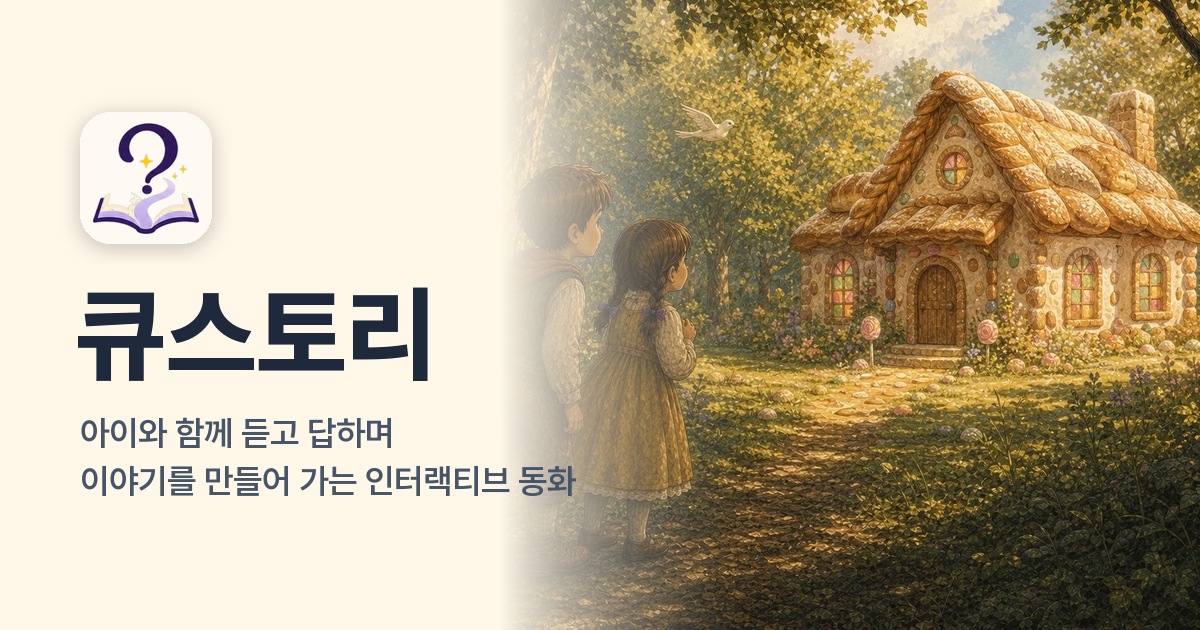
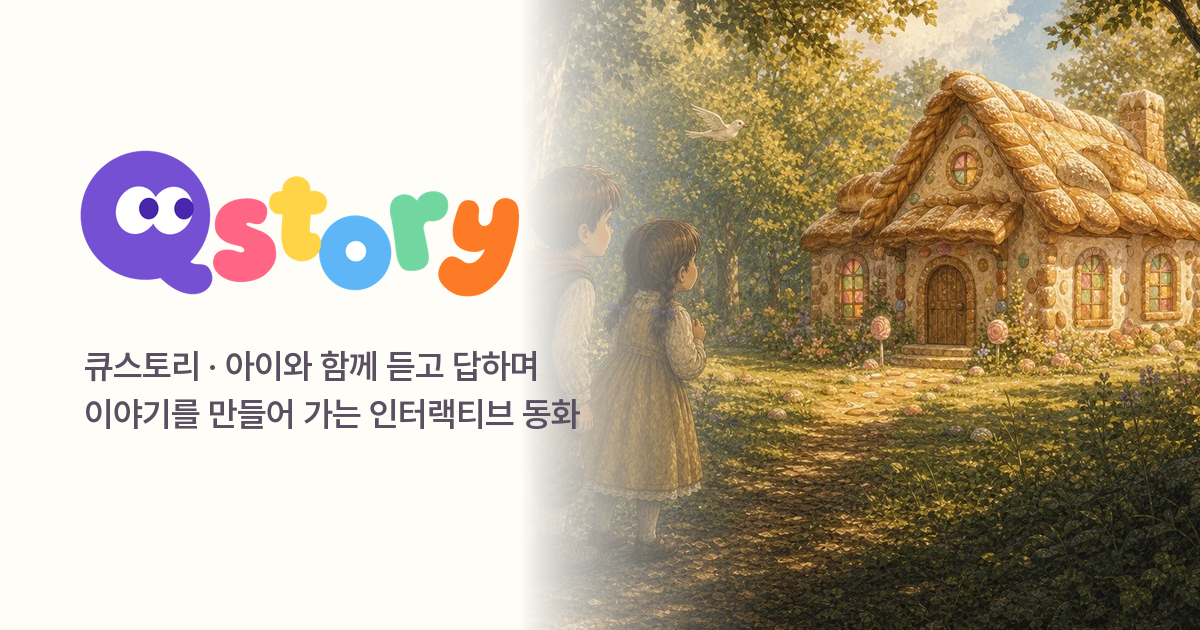
feat(brand): 새 Q 캐릭터 로고·워드마크로 파비콘·로딩 화면·OG·앱 안 로고 교체
- 랜딩 qstory-logo.png에서 Q 캐릭터를 떼어 매끈한 SVG(qstory-mark.svg)와 아이콘(32/180/192/512)을 만들었다
- BrandLockup은 워드마크(qstory-wordmark.png), 리더 상단 바는 새 마크
- 옛 질문책 로고 파일 제거

diff --git a/index.html b/index.html
@@ -9,7 +9,10 @@
     <link rel="preconnect" href="https://kbghxgejrkebdhjwizbr.supabase.co" crossorigin>
     <meta name="robots" content="noindex, nofollow, noarchive, nosnippet, noimageindex" />
     <meta name="description" content="아이와 함께 듣고 답하며 이야기를 만들어가는 인터랙티브 동화 - 큐스토리." />
-    <link rel="icon" href="/brand/q-story-logo-app-icon-1024.png" />
+    <link rel="icon" type="image/png" sizes="32x32" href="/brand/favicon-32.png" />
+    <link rel="icon" type="image/png" sizes="192x192" href="/brand/qstory-icon-192.png" />
+    <link rel="apple-touch-icon" sizes="180x180" href="/brand/apple-touch-icon.png" />
+    <meta name="theme-color" content="#FAF8FC" />
     <title>큐스토리</title>
     <!-- 초대·반 링크를 카카오톡 등에 붙였을 때의 미리보기. 경로와 상관없이 한 벌이다 - 리포트 링크도 이 공통 카드만
          보이게 해 아이 정보가 미리보기에 실리지 않게 한다. og:image는 절대 주소여야 스크래퍼가 읽는다. -->
@@ -21,13 +24,13 @@
     <meta property="og:image" content="https://demo.qstory.ai.kr/og-image.png" />
     <meta property="og:image:width" content="1200" />
     <meta property="og:image:height" content="630" />
-    <meta property="og:image:alt" content="큐스토리 로고와 숲속 과자집 앞의 헨젤과 그레텔 삽화" />
+    <meta property="og:image:alt" content="큐스토리 워드마크와 숲속 과자집 앞의 헨젤과 그레텔 삽화" />
     <meta name="twitter:card" content="summary_large_image" />
     <meta name="twitter:title" content="큐스토리" />
     <meta name="twitter:description" content="아이와 함께 듣고 답하며 이야기를 만들어 가는 인터랙티브 동화" />
     <meta name="twitter:image" content="https://demo.qstory.ai.kr/og-image.png" />
     <!-- JS가 오기 전 흰 화면 대신 보이는 정적 로딩 화면. #root 안에 두어 React가 처음 그릴 때 저절로 사라진다.
-         position: fixed라 레이아웃 자리를 차지하지 않아 사라질 때 밀림(CLS)이 없다. 배경은 첫 화면(라이트 셸)과 같다. -->
+         position: fixed라 레이아웃 자리를 차지하지 않아 사라질 때 밀림(CLS)이 없다. 배경은 첫 화면(라이트 셸)과 같고, 로고는 public/brand/qstory-mark.svg를 그대로 넣어 따로 요청하지 않는다. -->
     <style>
       #boot-splash {
         position: fixed;
@@ -37,34 +40,13 @@
         align-items: center;
         justify-content: center;
         gap: 20px;
-        background: #F7F8FA;
-        color: #1E293B;
+        background: #FAF8FC; /* Neutral 50 - 첫 화면(콘솔 바탕)과 같다 */
+        color: #27222D; /* Neutral 900 */
         font-family: 'Pretendard Variable', Pretendard, ui-sans-serif, system-ui, -apple-system, 'Apple SD Gothic Neo', 'Malgun Gothic', sans-serif;
       }
       #boot-splash .boot-mark {
-        position: relative;
-        width: 72px;
+        width: 66px;
         height: 72px;
-        border-radius: 20px;
-        background: #FFF7E8;
-        box-shadow: 0 6px 18px rgba(18, 9, 31, 0.12);
-        display: flex;
-        align-items: center;
-        justify-content: center;
-        font-size: 44px;
-        font-weight: 900;
-        line-height: 1;
-        color: #3B2266;
-      }
-      #boot-splash .boot-mark::after {
-        content: '';
-        position: absolute;
-        top: 14px;
-        right: 14px;
-        width: 9px;
-        height: 9px;
-        border-radius: 50%;
-        background: #F6C64D;
       }
       #boot-splash .boot-name {
         font-size: 22px;
@@ -79,7 +61,7 @@
         width: 7px;
         height: 7px;
         border-radius: 50%;
-        background: #F6C64D;
+        background: #9979E1; /* Purple 400 */
         animation: boot-pulse 1.2s ease-in-out infinite;
       }
       #boot-splash .boot-dots span:nth-child(2) { animation-delay: 0.15s; }
@@ -96,7 +78,11 @@
   <body>
     <div id="root">
       <div id="boot-splash" role="status" aria-live="polite" aria-label="큐스토리를 여는 중이에요">
-        <div class="boot-mark" aria-hidden="true">?</div>
+        <svg class="boot-mark" xmlns="http://www.w3.org/2000/svg" viewBox="0 0 270 294" aria-hidden="true">
+          <path fill="#7550D3" fill-rule="evenodd" d="M53.88 25.38 L51.00 27.88 L47.88 30.12 L45.00 32.88 L41.88 35.12 L34.12 42.88 L31.88 46.00 L28.50 49.62 L22.38 57.88 L20.38 61.38 L16.75 66.88 L10.62 79.12 L8.38 84.75 L5.75 92.25 L2.25 106.00 L1.00 113.62 L0.75 116.88 L0.12 119.75 L0.00 143.50 L0.75 147.75 L1.12 152.62 L3.12 162.88 L4.75 169.12 L7.75 178.12 L10.12 184.12 L12.25 188.75 L17.75 199.50 L24.12 209.25 L30.75 218.00 L45.62 233.00 L48.88 235.38 L51.38 237.62 L59.25 243.25 L64.62 246.50 L74.12 251.75 L86.75 257.00 L93.50 259.25 L105.62 262.25 L112.62 263.38 L115.88 263.62 L119.88 264.38 L125.62 264.38 L127.75 264.62 L145.50 264.38 L150.38 263.50 L153.62 263.25 L160.88 261.75 L162.62 261.88 L164.12 262.62 L168.62 267.00 L171.25 268.88 L174.62 271.88 L177.00 273.50 L179.88 276.00 L185.62 279.88 L192.50 284.00 L202.12 288.75 L204.62 289.75 L208.50 291.00 L217.75 293.25 L221.00 293.50 L225.88 294.38 L233.50 294.38 L239.88 293.25 L245.00 291.88 L250.25 289.75 L253.50 288.00 L257.75 284.88 L262.62 280.00 L265.75 275.25 L267.75 270.50 L269.25 264.62 L269.38 257.88 L268.75 254.25 L267.75 250.62 L266.75 248.00 L264.00 242.50 L262.00 239.62 L258.88 236.50 L257.75 235.62 L256.00 234.75 L250.75 233.12 L248.25 232.88 L244.62 232.12 L236.00 232.00 L234.12 231.75 L230.62 230.75 L228.25 229.62 L227.00 228.62 L226.50 227.62 L226.62 226.62 L227.12 225.75 L230.38 221.50 L234.25 217.50 L236.50 214.38 L238.62 212.00 L244.25 203.75 L247.75 198.25 L253.75 186.25 L256.75 178.75 L260.00 168.88 L262.25 159.75 L263.25 154.62 L263.50 151.38 L264.38 146.50 L264.62 136.00 L265.12 133.12 L265.12 131.25 L264.62 128.38 L264.38 118.88 L263.62 114.62 L263.38 111.38 L262.25 105.50 L259.25 93.50 L254.88 81.38 L248.12 67.62 L245.25 62.62 L236.88 50.62 L234.50 48.00 L232.25 44.88 L219.75 32.38 L209.50 24.38 L203.75 20.50 L197.50 16.75 L187.25 11.62 L175.25 6.88 L161.62 3.12 L156.62 2.12 L153.12 1.75 L150.62 1.12 L145.38 0.88 L140.50 0.00 L123.88 0.00 L119.62 0.75 L113.75 1.12 L103.50 3.12 L94.50 5.38 L86.62 8.00 L76.62 12.25 L65.62 17.88 L59.62 21.50 Z"/>
+          <path fill="#FFFFFF" fill-rule="evenodd" d="M75.00 110.25 L73.75 115.25 L72.88 121.25 L72.62 126.38 L72.88 131.12 L73.38 135.00 L75.00 141.75 L76.62 146.12 L78.50 150.00 L80.38 153.12 L85.00 158.88 L88.25 161.88 L91.12 164.00 L94.00 165.75 L99.38 168.12 L103.88 169.38 L108.00 170.00 L114.25 170.00 L118.75 169.38 L125.12 167.50 L129.88 165.38 L135.25 162.00 L139.00 159.00 L142.25 155.88 L145.38 152.25 L147.75 149.00 L151.38 154.75 L154.00 158.00 L159.12 162.88 L162.00 164.88 L165.25 166.75 L168.62 168.25 L172.00 169.38 L176.12 170.25 L179.25 170.62 L184.62 170.62 L190.88 169.75 L194.12 168.88 L198.25 167.38 L201.75 165.75 L205.50 163.50 L208.50 161.38 L212.12 158.25 L215.25 155.12 L219.62 149.62 L222.12 145.62 L225.75 138.00 L227.12 134.00 L228.12 130.12 L229.25 122.38 L229.38 116.62 L229.12 112.88 L228.62 109.25 L227.62 105.00 L226.50 101.38 L225.12 98.12 L223.00 94.00 L220.88 90.75 L218.12 87.38 L215.38 84.62 L213.50 83.00 L209.75 80.38 L207.12 78.88 L203.62 77.38 L199.88 76.12 L193.38 75.00 L188.75 74.88 L181.62 75.75 L177.50 76.88 L174.12 78.12 L170.00 80.12 L163.62 84.25 L160.50 86.88 L155.38 92.38 L152.50 96.25 L149.12 90.38 L145.62 86.00 L142.50 82.88 L139.12 80.25 L136.12 78.38 L133.12 76.88 L129.00 75.38 L125.50 74.50 L122.00 74.00 L117.75 73.88 L114.25 74.12 L111.00 74.62 L107.12 75.62 L101.25 78.00 L97.00 80.38 L91.00 84.88 L86.75 89.12 L82.62 94.25 L80.25 98.00 L77.62 103.12 Z"/>
+          <path fill="#4A26AC" fill-rule="evenodd" d="M209.38 97.75 L205.88 98.50 L202.25 100.12 L199.12 102.38 L196.50 105.25 L194.50 108.38 L193.00 112.12 L192.25 115.62 L192.12 120.75 L192.75 124.50 L193.88 127.75 L194.88 129.75 L196.62 132.50 L199.62 135.62 L202.50 137.62 L206.62 139.38 L209.38 139.88 L213.50 139.88 L218.25 138.62 L221.62 136.75 L223.62 135.12 L225.38 133.25 L227.75 129.88 L228.50 128.12 L229.25 122.38 L229.38 116.62 L229.12 112.88 L228.62 109.75 L227.25 107.12 L224.88 103.88 L222.00 101.25 L219.12 99.50 L215.75 98.25 L213.00 97.75 Z M137.88 97.38 L134.50 98.00 L130.88 99.50 L127.75 101.62 L124.62 104.88 L122.75 107.88 L121.00 112.25 L120.25 116.38 L120.25 120.75 L121.00 124.75 L122.00 127.62 L123.12 129.88 L124.62 132.12 L127.25 135.00 L129.75 136.88 L134.00 138.88 L137.62 139.62 L141.00 139.62 L144.12 139.00 L147.38 137.75 L149.25 136.62 L151.62 134.75 L153.88 132.25 L155.88 129.12 L157.50 125.00 L158.38 120.25 L158.38 116.75 L157.75 112.88 L156.12 108.50 L153.88 104.75 L151.12 101.88 L148.38 99.88 L145.25 98.38 L141.75 97.50 Z"/>
+        </svg>
         <div class="boot-name" aria-hidden="true">큐스토리</div>
         <div class="boot-dots" aria-hidden="true"><span></span><span></span><span></span></div>
       </div>

diff --git a/src/shared/ui/brand-lockup.tsx b/src/shared/ui/brand-lockup.tsx
@@ -1,88 +1,32 @@
-import { Image, StyleSheet, Text, View } from 'react-native';
-
-import { storybookTheme } from './theme';
+import { Image, StyleSheet } from 'react-native';
 
 type BrandLockupProps = {
   size?: 'default' | 'compact';
   /**
-   * 어떤 배경 위에 놓이는지. 'onDark'(기본)는 리더·랜딩의 다크 배경용(골드 Q + 흰 워드마크).
-   * 'onLight'는 콘솔·인증 화면의 라이트 배경용 - 흰 워드마크가 배경에 묻혀 "Q-STORY"가 보이지
-   * 않던 문제를 여기서 막는다(네이비 워드마크 + 앰버 Q + hairline 프레임).
+   * 어떤 배경 위에 놓이는지. 새 워드마크(보라 Q + 색 글자)는 밝은 바탕·어두운 바탕 모두에서 같은 그림을 쓴다 -
+   * 부르는 쪽 코드를 그대로 두려고 값은 받는다.
    */
   tone?: 'onDark' | 'onLight';
 };
 
+/** 워드마크 원본(public/brand/qstory-wordmark.png = 랜딩 qstory-logo.png) 비율. */
+const WORDMARK_ASPECT = 899 / 301;
+
 /**
- * Q-Story 로고 마크 + 워드마크. 홈/랜딩/플레이어/온보딩 등 여러 화면이 공유한다.
+ * Q-Story 워드마크(Q 캐릭터 + "story"). 홈/플레이어/온보딩/대시보드 머리 등 여러 화면이 공유한다.
  */
-export function BrandLockup({ size = 'default', tone = 'onDark' }: BrandLockupProps) {
-  const compact = size === 'compact';
-  const onLight = tone === 'onLight';
+export function BrandLockup({ size = 'default' }: BrandLockupProps) {
   return (
-    <View style={styles.lockup}>
-      <View style={[styles.frame, compact && styles.frameCompact, onLight && styles.frameOnLight]}>
-        <Image
-          source={{ uri: '/brand/q-story-question-book-logo.svg' }}
-          resizeMode="contain"
-          style={[styles.logo, compact && styles.logoCompact]}
-          accessibilityLabel="Q-Story 로고"
-        />
-      </View>
-      <Text style={[styles.brand, compact && styles.brandCompact]}>
-        <Text style={[styles.brandQ, onLight && styles.brandQOnLight]}>Q</Text>
-        <Text style={[styles.brandRest, onLight && styles.brandRestOnLight]}>-STORY</Text>
-      </Text>
-    </View>
+    <Image
+      source={{ uri: '/brand/qstory-wordmark.png' }}
+      resizeMode="contain"
+      style={size === 'compact' ? styles.compact : styles.default}
+      accessibilityLabel="Q-Story"
+    />
   );
 }
 
 const styles = StyleSheet.create({
-  lockup: {
-    flexDirection: 'row',
-    alignItems: 'center',
-    gap: 10,
-  },
-  frame: {
-    width: 50,
-    height: 54,
-    borderRadius: storybookTheme.radius.logoFrame,
-    alignItems: 'center',
-    justifyContent: 'center',
-    backgroundColor: storybookTheme.color.brandFrameBackground,
-    borderWidth: 1,
-    borderColor: storybookTheme.color.surfaceCardBorder,
-  },
-  frameCompact: {
-    width: 40,
-    height: 43,
-  },
-  frameOnLight: {
-    backgroundColor: storybookTheme.color.contentSurface,
-    borderColor: storybookTheme.color.contentSurfaceBorder,
-  },
-  logo: {
-    width: 42,
-    height: 46,
-  },
-  logoCompact: {
-    width: 33,
-    height: 36,
-  },
-  brand: {
-    fontSize: storybookTheme.type.xs,
-    fontWeight: storybookTheme.type.weight.bold,
-    letterSpacing: 1.8,
-  },
-  brandCompact: {
-    fontSize: storybookTheme.type.xs,
-    letterSpacing: 1.6,
-  },
-  brandQ: {
-    color: storybookTheme.color.gold,
-  },
-  brandRest: {
-    color: storybookTheme.color.onDark,
-  },
-  brandQOnLight: { color: storybookTheme.color.goldText },
-  brandRestOnLight: { color: storybookTheme.color.onContent },
+  default: { height: 40, width: 40 * WORDMARK_ASPECT },
+  compact: { height: 32, width: 32 * WORDMARK_ASPECT },
 });

diff --git a/src/pages/one-story/ui/top-bar.tsx b/src/pages/one-story/ui/top-bar.tsx
@@ -64,7 +64,7 @@ export function TopBar({
           ]}
         >
           <Image
-            source={{ uri: '/brand/q-story-question-book-logo.svg' }}
+            source={{ uri: '/brand/qstory-mark.svg' }}
             resizeMode="contain"
             style={[styles.brandLogo, compactLockup && styles.brandLogoNarrow]}
             accessibilityLabel="Q-Story 로고"
